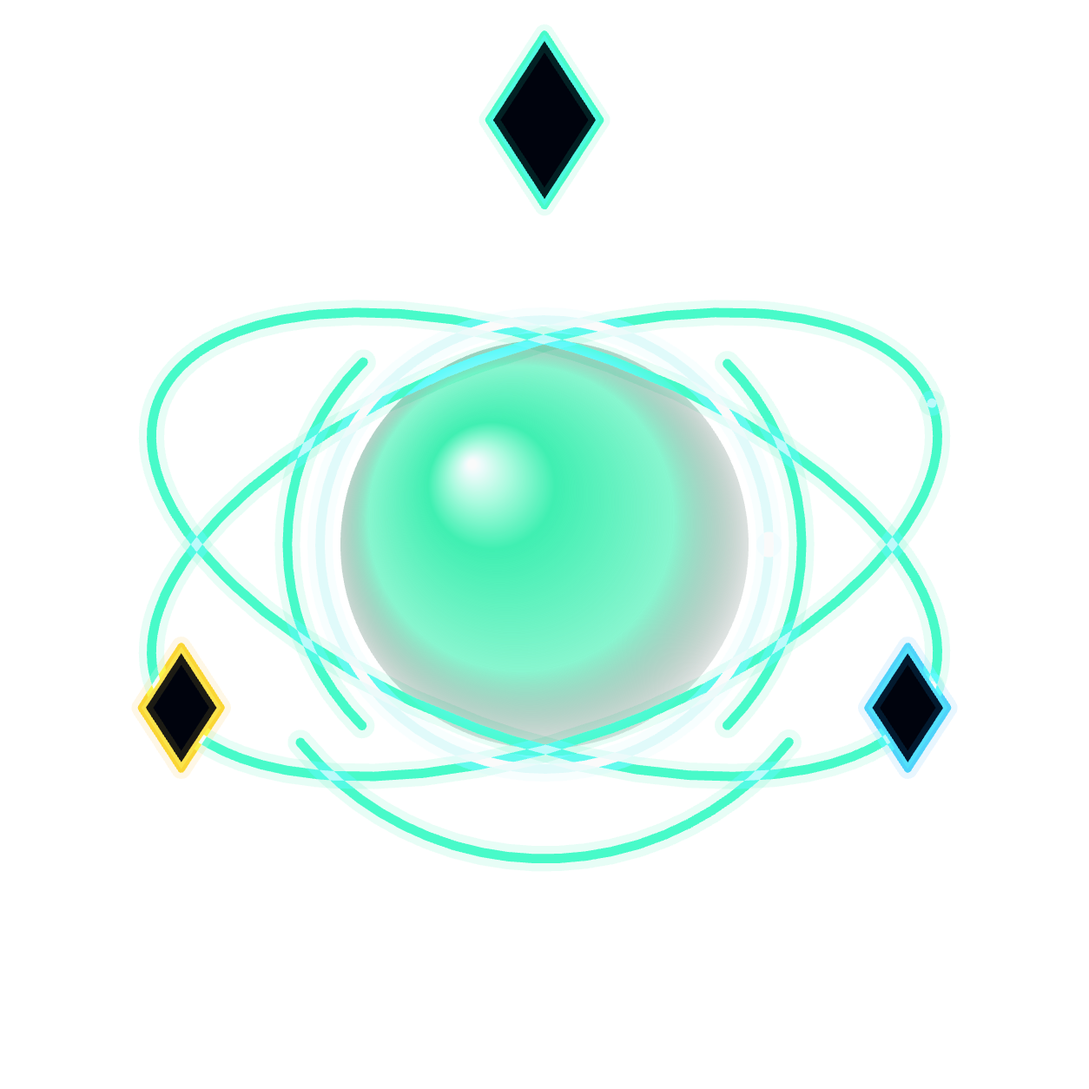
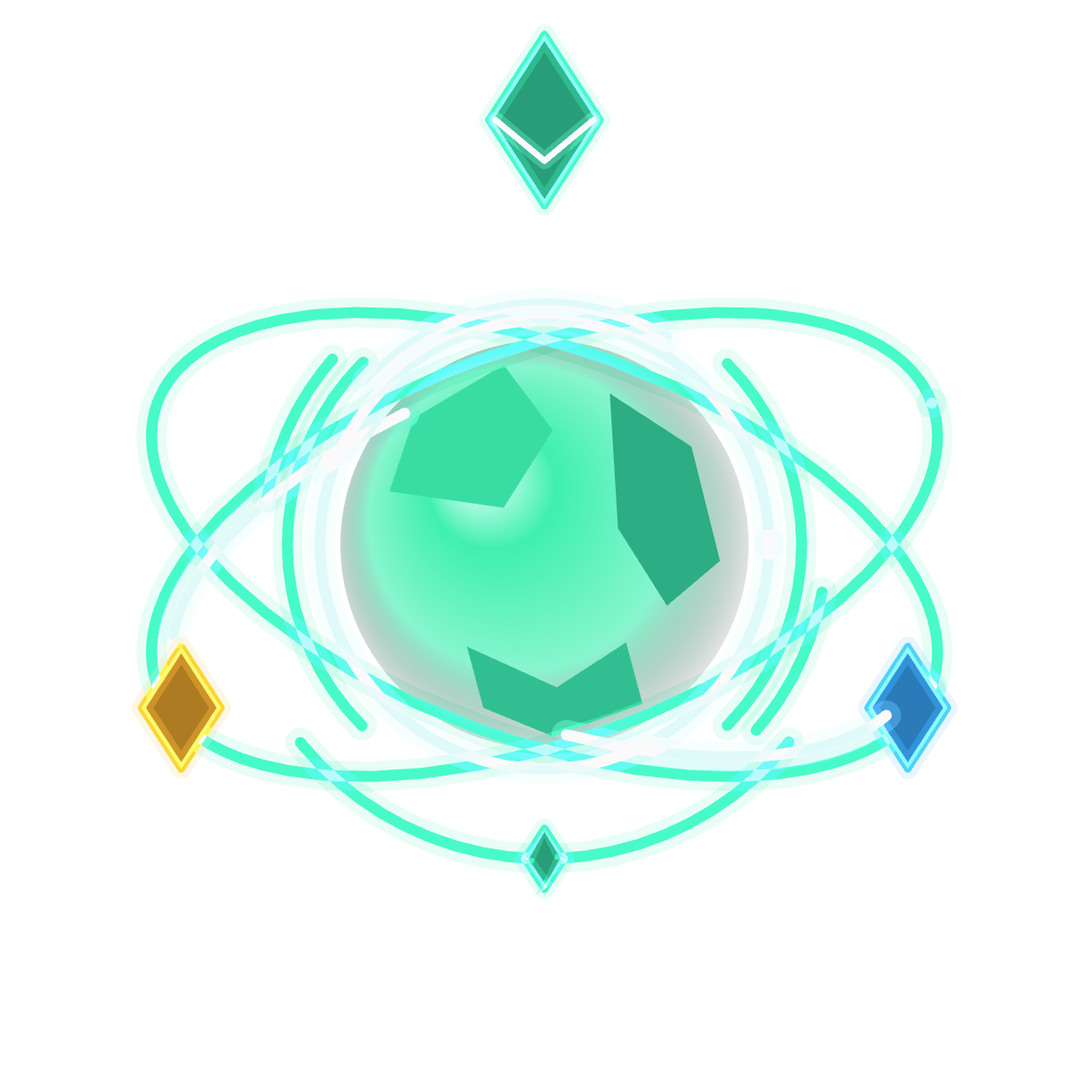
feat(unity): restore character concept details and replace movement flip with subtle trail

diff --git a/UnityProject/Assets/EchoSphere/Scripts/Presentation/NativeCharacterContours.cs b/UnityProject/Assets/EchoSphere/Scripts/Presentation/NativeCharacterContours.cs
@@ -16,6 +16,7 @@ namespace EchoSphere.Presentation
             internal Matrix4x4 Local;
             internal Color? Accent;
             internal bool White;
+            internal float Tone;
             public void Dispose(){Destroy(Fill);Destroy(Stroke);Destroy(Halo);}
         }
         private sealed class Rig : IDisposable
@@ -40,11 +41,12 @@ namespace EchoSphere.Presentation
             if(!_rigs.TryGetValue(id,out var rig)){rig=Build(id);_rigs.Add(id,rig);}
             foreach(var part in rig.Parts){
                 var local=root*part.Local;
-                if(part.Fill!=null)surface.DrawNativeMesh(part.Fill,_solid,Properties(new Color(.018f,.047f,.080f,1)),local,opacity:opacity,inheritShadow:false);
                 var edge=part.White?new Color(.79f,.96f,1,1):part.Accent??color;
+                var fill=Color.Lerp(new Color(.018f,.047f,.080f,1),part.Accent??color,part.Tone);
+                if(part.Fill!=null)surface.DrawNativeMesh(part.Fill,_solid,Properties(fill),local,opacity:opacity,inheritShadow:false);
                 var halo=edge;halo.a=.12f;
-                surface.DrawNativeMesh(part.Halo,_solid,Properties(halo),local,opacity:opacity,additive:true,inheritShadow:false);
-                surface.DrawNativeMesh(part.Stroke,_solid,Properties(edge),local,opacity:opacity,additive:true,inheritShadow:false);
+                if(part.Halo!=null)surface.DrawNativeMesh(part.Halo,_solid,Properties(halo),local,opacity:opacity,additive:true,inheritShadow:false);
+                if(part.Stroke!=null)surface.DrawNativeMesh(part.Stroke,_solid,Properties(edge),local,opacity:opacity,additive:true,inheritShadow:false);
             }
         }
         private static Vector2 P(float x,float y)=>new Vector2(x,y);
@@ -52,74 +54,112 @@ namespace EchoSphere.Presentation
         private static Rig Build(string id)
         {
             var rig=new Rig();
-            void Add(BezierContour contour,bool fill=false,float x=0,float y=0,float angle=0,bool white=false,Color? accent=null,float width=.023f){
-                var part=new Part{Local=Pose(x,y,angle),White=white,Accent=accent};
+            void Add(BezierContour contour,bool fill=false,float x=0,float y=0,float angle=0,bool white=false,Color? accent=null,float width=.027f,float tone=.12f){
+                var part=new Part{Local=Pose(x,y,angle),White=white,Accent=accent,Tone=tone};
                 if(fill)part.Fill=Tessellate(contour,0);
-                part.Stroke=Tessellate(contour,width,cap:PathEnding.Round,corners:PathCorner.Round);
-                part.Halo=Tessellate(contour,width*2.7f,cap:PathEnding.Round,corners:PathCorner.Round);rig.Parts.Add(part);
+                if(width>0){part.Stroke=Tessellate(contour,width,cap:PathEnding.Round,corners:PathCorner.Round);
+                part.Halo=Tessellate(contour,width*2.7f,cap:PathEnding.Round,corners:PathCorner.Round);}rig.Parts.Add(part);
             }
             void Arc(float rx,float ry,float start,float end,float angle=0,bool white=false,float x=0,float y=0)=>Add(EllipseContour(Vector2.zero,rx,ry,start,end),angle:angle,white:white,x:x,y:y);
             void Poly(bool closed,bool fill,params Vector2[] points)=>Add(PolylineContour(closed,points),fill);
-            void Diamond(float x,float y,float size,Color? accent=null)=>Add(PolylineContour(true,P(0,-size),P(size*.65f,0),P(0,size),P(-size*.65f,0)),true,x,y,accent:accent,width:.018f);
-            void Fin(float a,float length=1.18f,float breadth=.13f){
-                Add(PolylineContour(true,P(.72f,-breadth),P(length,0),P(.72f,breadth),P(.82f,0)),true,angle:a,white:true);
+            void Diamond(float x,float y,float size,Color? accent=null)=>Add(PolylineContour(true,P(0,-size),P(size*.65f,0),P(0,size),P(-size*.65f,0)),true,x,y,accent:accent,width:.018f,tone:.65f);
+            void Fin(float a,float length=1.18f,float breadth=.18f){
+                Add(PolylineContour(true,P(.72f,-breadth),P(length,0),P(.72f,breadth),P(.82f,0)),true,angle:a,white:true,tone:.32f);
+                Add(PolylineContour(true,P(.81f,-breadth*.60f),P(length-.09f,0),P(.90f,.015f)),true,angle:a,width:0,tone:.70f);
+                Add(PolylineContour(false,P(.75f,breadth*.52f),P(.87f,.025f)),angle:a,white:true,width:.015f);
                 Add(PolylineContour(false,P(.84f,0),P(length-.07f,0)),angle:a,width:.017f);
             }
             void Crescent(float angle,float reach=1.15f){
-                Add(QuadraticContour(P(-.46f,-.77f),true,P(.10f,-1.13f),P(.80f,-reach),P(.55f,-.80f),P(.24f,-.67f),P(-.11f,-.72f),P(-.46f,-.77f)),true,angle:angle);
+                Add(QuadraticContour(P(-.46f,-.77f),true,P(.10f,-1.13f),P(.80f,-reach),P(.55f,-.80f),P(.24f,-.67f),P(-.11f,-.72f),P(-.46f,-.77f)),true,angle:angle,tone:.30f);
+                Add(PolylineContour(true,P(-.27f,-.79f),P(.65f,-reach+.07f),P(.22f,-.79f)),true,angle:angle,width:0,tone:.66f);
+                Add(PolylineContour(false,P(-.32f,-.79f),P(.18f,-.96f),P(.57f,-reach+.07f)),angle:angle,white:true,width:.014f);
             }
             // Every identity shares the same light core collar, never a solid armor shell.
             Arc(.55f,.55f,0,Mathf.PI*2,white:true);
             Arc(.63f,.63f,-.78f,.78f);Arc(.63f,.63f,2.36f,3.93f);
+            // Broad energy cells and doubled collars follow the approved concept;
+            // they are flat colored pieces, not lit metal or extruded armor.
+            Add(PolylineContour(true,P(-.32f,-.31f),P(-.10f,-.44f),P(.02f,-.28f),P(-.10f,-.09f),P(-.38f,-.13f)),true,width:0,tone:.92f);
+            Add(PolylineContour(true,P(.16f,-.37f),P(.36f,-.24f),P(.43f,.04f),P(.30f,.15f),P(.18f,-.04f)),true,width:0,tone:.72f);
+            Add(PolylineContour(true,P(-.19f,.25f),P(.03f,.35f),P(.20f,.24f),P(.24f,.39f),P(.02f,.47f),P(-.15f,.40f)),true,width:0,tone:.80f);
+            Arc(.59f,.59f,-2.40f,-1.04f,white:true);Arc(.69f,.69f,.17f,.72f);Arc(.69f,.69f,3.31f,3.86f);
             switch(id){
                 case "spherist":
                     Arc(1.05f,.88f,.18f,2.96f);Arc(1.05f,.88f,3.32f,6.10f);
-                    for(int i=0;i<4;i++)Fin(i*Mathf.PI*.5f,i%2==0?1.22f:1.26f,i%2==0?.10f:.13f);
-                    Diamond(.79f,-.63f,.065f);Diamond(-.79f,.63f,.065f);break;
+                    for(int i=0;i<4;i++)Fin(i*Mathf.PI*.5f,i%2==0?1.22f:1.26f,i%2==0?.15f:.19f);
+                    Diamond(.79f,-.63f,.065f);Diamond(-.79f,.63f,.065f);
+                    Arc(.96f,.80f,.23f,.82f,white:true);Arc(.96f,.80f,3.37f,3.96f,white:true);
+                    Add(PolylineContour(false,P(-.60f,-.27f),P(-.78f,-.20f),P(-.89f,-.08f)),white:true,width:.017f);
+                    Add(PolylineContour(false,P(.60f,.27f),P(.78f,.20f),P(.89f,.08f)),white:true,width:.017f);break;
                 case "hunter":
-                    Crescent(-.12f,1.21f);Crescent(Mathf.PI+.16f,1.21f);
+                    Crescent(-.12f,1.15f);Crescent(Mathf.PI+.16f,1.15f);
                     Arc(.86f,.86f,-.65f,.82f);Arc(.86f,.86f,2.50f,3.90f);
                     Poly(false,false,P(-.89f,.43f),P(-1.12f,.76f),P(-.61f,.62f));
-                    Diamond(.87f,.10f,.075f);Diamond(-.80f,-.22f,.06f);break;
+                    Diamond(.87f,.10f,.075f);Diamond(-.80f,-.22f,.06f);
+                    Add(PolylineContour(true,P(-.90f,-.29f),P(-1.12f,-.61f),P(-.78f,-.45f),P(-.68f,-.21f)),true,tone:.30f);
+                    Add(PolylineContour(true,P(.66f,.33f),P(.99f,.58f),P(.77f,.61f),P(.57f,.43f)),true,tone:.42f);
+                    Arc(.76f,.76f,-2.69f,-1.91f,white:true);Arc(.76f,.76f,.45f,1.21f,white:true);break;
                 case "engineer":
                     for(int i=0;i<2;i++){
                         float a=i*Mathf.PI;
                         Add(PolylineContour(true,P(.77f,-.55f),P(.96f,-.42f),P(.96f,.42f),P(.77f,.55f),P(.77f,.31f),P(.84f,.24f),P(.84f,-.24f),P(.77f,-.31f)),true,angle:a,white:true);
                         Add(PolylineContour(true,P(-.32f,-.94f),P(.32f,-.94f),P(.40f,-.85f),P(.31f,-.76f),P(-.31f,-.76f),P(-.40f,-.85f)),true,angle:a,white:true);
                         Add(PolylineContour(false,P(-.22f,-.85f),P(.22f,-.85f)),angle:a);
-                        Add(PolylineContour(true,P(.64f,-.13f),P(.71f,-.13f),P(.71f,.13f),P(.64f,.13f)),true,angle:a,accent:new Color(1,.68f,.28f));
+                        Add(PolylineContour(true,P(.64f,-.13f),P(.71f,-.13f),P(.71f,.13f),P(.64f,.13f)),true,angle:a,accent:new Color(1,.68f,.28f),tone:.65f);
                         Diamond(0,i==0?-1.09f:1.09f,.045f);
+                        Add(PolylineContour(false,P(.78f,-.34f),P(.88f,-.26f),P(.88f,.26f),P(.78f,.34f)),angle:a,width:.015f);
+                        Add(PolylineContour(true,P(.91f,-.075f),P(1.045f,-.075f),P(1.045f,.075f),P(.91f,.075f)),true,angle:a,tone:.62f,width:.018f);
+                        Add(PolylineContour(true,P(-.26f,-.89f),P(.26f,-.89f),P(.22f,-.82f),P(-.22f,-.82f)),true,angle:a,width:0,tone:.50f);
+                        Add(PolylineContour(false,P(-.19f,-1.025f),P(.19f,-1.025f)),angle:a,width:.015f);
                     }break;
                 case "berserker":
                     for(int i=0;i<3;i++){
                         float a=i*Mathf.PI*2/3;
                         Add(PolylineContour(true,P(.56f,-.48f),P(.89f,-.62f),P(1.15f,-.22f),P(.92f,-.31f),P(.81f,.04f),P(.73f,-.24f)),true,angle:a);
                         Arc(.92f,.92f,-.17f,.51f,a,white:true);
+                        Add(PolylineContour(true,P(.68f,-.45f),P(.86f,-.53f),P(.98f,-.33f),P(.84f,-.36f),P(.77f,-.16f)),true,angle:a,width:0,tone:.58f);
+                        Add(PolylineContour(false,P(.65f,-.63f),P(.80f,-.74f),P(.93f,-.65f)),angle:a,white:true,width:.017f);
                     }break;
                 case "alchemist":
                     Arc(1.01f,.48f,0,Mathf.PI*2,.35f);Arc(1.01f,.48f,0,Mathf.PI*2,-.35f);
                     Diamond(0,-1.04f,.21f);Diamond(-.89f,.40f,.15f,new Color(1,.74f,.28f));Diamond(.89f,.40f,.15f,new Color(.34f,.72f,1));
-                    Arc(.77f,.77f,.68f,2.46f);break;
+                    Arc(.77f,.77f,.68f,2.46f);
+                    Arc(.96f,.43f,.25f,1.35f,.35f,white:true);Arc(.96f,.43f,3.39f,4.49f,-.35f,white:true);
+                    Add(PolylineContour(false,P(-.12f,-1.04f),P(0,-.94f),P(.12f,-1.04f)),white:true,width:.015f);
+                    Diamond(0,.77f,.075f);break;
                 case "architect":
                     Poly(true,false,P(0,-1.12f),P(.97f,.64f),P(-.97f,.64f));
                     Add(PolylineContour(true,P(-.71f,-.61f),P(.71f,-.61f),P(.71f,.81f),P(-.71f,.81f)),angle:.22f,white:true,width:.018f);
                     Diamond(0,-1.12f,.085f);Diamond(.97f,.64f,.085f);Diamond(-.97f,.64f,.085f);
-                    Arc(.77f,.77f,-.20f,1.0f);break;
+                    Arc(.77f,.77f,-.20f,1.0f);
+                    Poly(false,false,P(-.60f,.56f),P(0,-.91f),P(.60f,.56f));
+                    for(int i=0;i<3;i++){float a=i*Mathf.PI*2/3;Add(PolylineContour(true,P(-.07f,-.86f),P(0,-1.0f),P(.07f,-.86f)),true,angle:a,width:0,tone:.65f);}
+                    Arc(.83f,.83f,1.54f,2.81f,white:true);break;
                 case "conductor":
                     for(int i=0;i<2;i++){
                         float a=i*Mathf.PI;
                         Add(PolylineContour(true,P(-.18f,-.76f),P(.36f,-1.20f),P(.17f,-.86f),P(.46f,-.91f),P(.12f,-.51f),P(.19f,-.75f)),true,angle:a,white:true);
+                        Add(PolylineContour(false,P(.02f,-.77f),P(.15f,-.96f),P(.10f,-.80f)),angle:a,width:.017f);
+                        Arc(.82f,.82f,-.52f,.49f,a,white:true);
+                        Add(PolylineContour(true,P(.78f,-.43f),P(1.02f,-.47f),P(.94f,-.28f)),true,angle:a,tone:.42f);
                         Arc(.94f,.94f,-.75f,.68f,a);Diamond(i==0?.91f:-.91f,i==0?.24f:-.24f,.07f);
                     }break;
                 case "oracle":
                     Add(QuadraticContour(P(-1.10f,0),true,P(0,-.84f),P(1.10f,0),P(0,.84f),P(-1.10f,0)),white:true);
                     Arc(.83f,.83f,-2.58f,-.56f);Arc(.83f,.83f,.56f,2.58f);
-                    Diamond(0,-1.02f,.17f);Diamond(0,1.02f,.17f);break;
+                    Diamond(0,-1.02f,.17f);Diamond(0,1.02f,.17f);
+                    Add(QuadraticContour(P(-.91f,0),false,P(-.45f,-.36f),P(-.14f,-.31f)),width:.018f);
+                    Add(QuadraticContour(P(.91f,0),false,P(.45f,.36f),P(.14f,.31f)),width:.018f);
+                    Add(PolylineContour(false,P(0,-1.13f),P(.055f,-1.02f),P(0,-.91f)),white:true,width:.015f);
+                    Arc(.96f,.96f,-2.39f,-1.92f,white:true);Arc(.96f,.96f,.75f,1.22f,white:true);break;
                 case "voidwalker":
                     for(int i=0;i<3;i++){
                         float a=i*Mathf.PI*2/3+.24f;
                         Arc(.94f,.94f,-.70f,.38f,a,white:true);
-                        Add(PolylineContour(true,P(.71f,.31f),P(1.10f,.25f),P(.89f,.62f),P(.88f,.41f)),true,angle:a);
+                        Add(PolylineContour(true,P(.71f,.31f),P(1.10f,.25f),P(.89f,.62f),P(.88f,.41f)),true,angle:a,tone:.28f);
+                        Add(PolylineContour(true,P(.81f,.34f),P(1.01f,.30f),P(.91f,.47f)),true,angle:a,width:0,tone:.65f);
+                        Arc(.84f,.84f,-.63f,-.05f,a);
+                        Add(PolylineContour(false,P(.68f,-.63f),P(.84f,-.58f),P(.90f,-.40f)),angle:a,width:.018f);
                     }
                     Arc(.71f,.71f,.13f,1.12f);break;
                 case "fractal":
@@ -128,6 +168,9 @@ namespace EchoSphere.Presentation
                         Add(PolylineContour(true,P(0,-1.13f),P(.28f,-.66f),P(-.28f,-.66f)),angle:a,white:true);
                         Add(PolylineContour(false,P(-.19f,-.72f),P(0,-1.02f),P(.19f,-.72f)),angle:a);
                         Diamond(Mathf.Cos(a+.53f)*.92f,Mathf.Sin(a+.53f)*.92f,.065f);
+                        Add(PolylineContour(true,P(-.15f,-.73f),P(0,-.99f),P(.15f,-.73f)),true,angle:a,width:0,tone:.24f);
+                        Add(PolylineContour(false,P(-.25f,-.63f),P(0,-1.06f),P(.25f,-.63f)),angle:a,width:.014f);
+                        Arc(.89f,.89f,-.80f,-.35f,a);
                     }break;
                 default:Fin(-Mathf.PI*.5f);Fin(Mathf.PI*.5f);Arc(.94f,.94f,0,Mathf.PI*2);break;
             }

diff --git a/scripts/check-unity-character-motion.cs b/scripts/check-unity-character-motion.cs
@@ -1,0 +1,50 @@
+// Isolated native GPU fixture; never changes the live runtime or preferences.
+using System;
+using System.Collections;
+using System.Reflection;
+using System.IO;
+using UnityEngine;
+public static class CharacterMotionAcceptance
+{
+ public static object Main(){
+  if(!UnityEditor.EditorApplication.isPlaying)throw new Exception("Play required");
+  const BindingFlags F=BindingFlags.Instance|BindingFlags.Static|BindingFlags.Public|BindingFlags.NonPublic;
+  var a=typeof(EchoSphere.Runtime.EchoSphereRuntime).Assembly;var pt=a.GetType("EchoSphere.Presentation.NativeWorldPlayer");var st=pt.GetNestedType("State",F);var wt=a.GetType("EchoSphere.Presentation.NativeWorldSurface");
+  object Call(object o,string n,params object[] args)=>o.GetType().GetMethod(n,F).Invoke(o,args);
+  void Set(object o,string n,object value)=>o.GetType().GetField(n,F).SetValue(o,value);
+  object Get(object o,string n)=>o.GetType().GetField(n,F).GetValue(o);
+  int checks=0;void Check(bool ok,string why){checks++;if(!ok)throw new Exception(why);}
+  var go=new GameObject("Character motion fixture");var world=go.AddComponent(wt);Call(world,"Initialize");Call(world,"SetViewport",140f,100f,1.75f);
+  var feedback=Activator.CreateInstance(a.GetType("EchoSphere.Presentation.NativeWorldFeedback"),true);bool backdrop=false;
+  var player=Activator.CreateInstance(pt,true);var shadows=Activator.CreateInstance(a.GetType("EchoSphere.Presentation.NativeWorldCreatures"),true);
+  var core=Get(player,"_core");object state=null;var point=Vector2.zero;
+  void Frame(double time){Set(state,"X",(double)point.x);Set(state,"Y",(double)point.y);Set(state,"Time",time);Call(world,"Begin",Vector2.zero);Call(world,"ResetTransform");Call(player,"BeginFrame");Call(shadows,"BeginFrame");if(backdrop){Call(feedback,"BeginFrame",world);Call(feedback,"Rectangle",-70d,-50d,140d,100d,0d,new Color(.012f,.030f,.065f,1));}Call(player,"Draw",world,state,shadows);Call(world,"End");}
+  IList Batches()=>(IList)Get(world,"_batches");
+  int TrailDraws(){
+   Mesh trail=null;foreach(DictionaryEntry entry in (IDictionary)Get(player,"_art")){var k=entry.Key;if((int)k.GetType().GetField("Item1").GetValue(k)==0&&(double)k.GetType().GetField("Item2").GetValue(k)==1)trail=(Mesh)Get(entry.Value,"Fill");}
+   int count=0;foreach(var batch in Batches())if(trail!=null&&ReferenceEquals(Get(batch,"NativeMesh"),trail)){count++;Check((float)Get(batch,"Blur")==0,"Trail must not add blur passes");var color=((MaterialPropertyBlock)Get(batch,"NativeProperties")).GetVector("_NativeColor");Check(color.w<=.066f,"Trail too opaque");}return count;
+  }
+  try{
+   foreach(var id in new[]{"spherist","hunter","engineer","berserker","alchemist","architect","conductor","oracle","voidwalker","fractal"}){
+    state=Activator.CreateInstance(st);Set(state,"Character",id);Set(state,"Radius",16d);Set(state,"Hp",10d);Set(state,"Color",Color.cyan);point=Vector2.zero;Frame(100);
+    foreach(var direction in new[]{Vector2.right,Vector2.left,Vector2.up,Vector2.down}){
+     for(int i=0;i<3;i++){
+      point+=direction*2;double time=(double)Get(player,"_lastTime")+.016;Frame(time);
+      foreach(var batch in Batches())if(ReferenceEquals(Get(batch,"NativeMaterial"),core)){
+       var matrix=(Matrix4x4)Get(batch,"NativeMatrix");Check(matrix.m00>0,"Body mirrored on movement: "+id);Check(Math.Abs(matrix.m01)<.00001&&Math.Abs(matrix.m10)<.00001,"Body turned on movement: "+id);
+      }
+     }
+     Check(TrailDraws()>0,"Missing movement trail "+id);
+    }
+    double stop=(double)Get(player,"_lastTime")+.20;Frame(stop);Check(TrailDraws()==0,"Trail persists at rest "+id);
+    point+=Vector2.right*1000;Frame(stop+.016);Check((int)Get(player,"_trailCount")==0,"Trail spans teleport "+id);
+   }
+   backdrop=true;state=Activator.CreateInstance(st);Set(state,"Character","spherist");Set(state,"Radius",16d);Set(state,"Hp",10d);Set(state,"Color",Color.cyan);point=new Vector2(-32,0);Frame(300);
+   for(int i=0;i<6;i++){point+=new Vector2(5,0);Frame(300.016+i*.016);}
+   var rt=(RenderTexture)wt.GetProperty("UiTexture",F).GetValue(world);var previous=RenderTexture.active;var image=new Texture2D(rt.width,rt.height,TextureFormat.RGBA32,false);
+   string dir=Path.GetFullPath(Path.Combine(Application.dataPath,"../Library/character-contours"));Directory.CreateDirectory(dir);
+   try{RenderTexture.active=rt;image.ReadPixels(new Rect(0,0,rt.width,rt.height),0,0);image.Apply();File.WriteAllBytes(Path.Combine(dir,"movement-trail-unity.png"),image.EncodeToPNG());}finally{RenderTexture.active=previous;UnityEngine.Object.DestroyImmediate(image);}
+   var result=new{result="PASS",checks,characters=10,directions=4,trailSamples=6,fadeSeconds=.18,scope="Native body matrices never mirror/turn with motion; trail appears, fades at rest, resets at teleport and uses no blur; live scene untouched"};File.WriteAllText(Path.Combine(dir,"motion-acceptance.json"),Newtonsoft.Json.JsonConvert.SerializeObject(result));return result;
+  }finally{((IDisposable)player).Dispose();((IDisposable)shadows).Dispose();((IDisposable)feedback).Dispose();UnityEngine.Object.DestroyImmediate(go);}
+ }
+}

diff --git a/UnityProject/Assets/EchoSphere/Scripts/Presentation/NativeWorldPlayer.cs b/UnityProject/Assets/EchoSphere/Scripts/Presentation/NativeWorldPlayer.cs
@@ -28,6 +28,10 @@ namespace EchoSphere.Presentation
         private readonly Material _core=new Material(Resources.Load<Shader>("EchoSphere/NativeWorldPlayerCore")){name="Native player core",hideFlags=HideFlags.DontSave};
         private readonly List<MaterialPropertyBlock> _properties=new List<MaterialPropertyBlock>();private int _used;
         private readonly List<Art> _dynamic=new List<Art>();private int _dynamicUsed;
+        private struct TrailSample {internal double X,Y,Time;}
+        private readonly TrailSample[] _trail=new TrailSample[6];
+        private int _trailHead,_trailCount;
+        private string _trailCharacter;
         private double _lastX,_lastY,_lastTime=-1;
         private NativeWorldSurface _surface;
         internal void BeginFrame(){_used=0;_dynamicUsed=0;_contours.BeginFrame();}
@@ -50,18 +54,15 @@ namespace EchoSphere.Presentation
             // Menus bake this same contour rig.
             _surface=surface;double r=p.Radius,t=p.Time,pulse=1+Math.Sin(t*5.5)*.025;
             var root=T(p.X,p.Y-r*.1+Math.Sin(t*2.4)*.8,sx:pulse,sy:pulse);
+            DrawMovementTrail(p);
             shadows.DrawGroundShadow(surface,r*.95,r*.25,root);
             float opacity=1;double progress=0;
             if(p.Character=="spherist"){
-                double dt=_lastTime>=0?Math.Max(.001,t-_lastTime):.016,vx=(p.X-_lastX)/dt,vy=(p.Y-_lastY)/dt;
-                _lastX=p.X;_lastY=p.Y;_lastTime=t;
-                bool death=p.Hp<=0,hit=p.ContactCooldown>0,shield=p.ShieldTimer>0||p.ShieldCharges>0;
-                bool moving=!death&&!hit&&!shield&&(p.DashTimer>0||Math.Sqrt(vx*vx+vy*vy)>.06);
-                if(death){
+                if(p.Hp<=0){
                     progress=Math.Min(1,Math.Max(0,1-p.DeathTimer/.90));double fold=progress*progress;
                     var shear=Matrix4x4.identity;shear.m00=(float)(1-fold*.45);shear.m01=(float)(-.10*fold);shear.m11=(float)(1+fold*.06);
                     root*=T(y:-progress*r*.10)*shear*T(sx:pulse*(1-fold*.18),sy:pulse*(1-fold*.18));opacity=(float)(1-progress*.92);
-                }else{root*=T(sx:pulse,sy:pulse);if(moving&&vx>=0)root*=T(sx:-1);}
+                }else{root*=T(sx:pulse,sy:pulse);}
             }
             var bodyRoot=p.Character=="spherist"&&p.Hp<=0?root*T(angle:progress*progress*.25):root;
             DrawArtwork(surface,p,bodyRoot,opacity);
@@ -78,6 +79,23 @@ namespace EchoSphere.Presentation
                     for(int i=0;i<4;i++){double a=t*.9+i*Math.PI/2,rr=r*(1.08+.08*Math.Sin(t*3+i));Paint(diamond,root*T(Math.Cos(a)*rr,Math.Sin(a)*rr*.70),C(220,252,255,.34+spark*.20),null,additive:true);}
                 }
             }else DrawCharacterEffects(surface,p);
+        }
+        private void DrawMovementTrail(State p)
+        {
+            double dx=p.X-_lastX,dy=p.Y-_lastY,dt=p.Time-_lastTime;
+            bool discontinuity=_lastTime<0||_trailCharacter!=p.Character||dt<0||dt>.30||dx*dx+dy*dy>p.Radius*p.Radius*36;
+            if(discontinuity||p.Hp<=0){_trailCount=0;_trailHead=0;}
+            else if(dt>0&&dx*dx+dy*dy>.01){
+                _trail[_trailHead]=new TrailSample{X=_lastX,Y=_lastY,Time=p.Time};
+                _trailHead=(_trailHead+1)%_trail.Length;_trailCount=Math.Min(_trailCount+1,_trail.Length);
+            }
+            _lastX=p.X;_lastY=p.Y;_lastTime=p.Time;_trailCharacter=p.Character;
+            for(int i=0;i<_trailCount;i++){
+                var sample=_trail[(_trailHead-_trailCount+i+_trail.Length)%_trail.Length];
+                double age=p.Time-sample.Time;if(age<0||age>=.18)continue;
+                double fade=1-age/.18,size=p.Radius*(.16+.15*fade);
+                Paint(Circle(1),T(sample.X,sample.Y-p.Radius*.10,sx:size,sy:size),A(p.Color,.065*fade*fade),null,shadow:Color.clear,additive:true);
+            }
         }
         // UI sprites are generated in Editor from the exact live body, without
         // ground/contact/status effects or the run-time bob/death pose.

diff --git a/GPT/UNITY_NATIVE_MODERNIZATION_PROGRESS.md b/GPT/UNITY_NATIVE_MODERNIZATION_PROGRESS.md
@@ -2504,3 +2504,28 @@ https://github.com/Lir37/echo-sphere/actions/runs/40882106878
 проверки и штатного освобождения Console проверена повторно. Неиспользуемые ресурсы
 освобождены Resources.UnloadUnusedAssets,Editor prefs10keys restored/verified.
 Этот завершающий commit меняет recipe/отчёт,не рисунок и не игровой код/APK.
+
+2026-10-29 — исправление по замечанию пользователя к первому contour-переносу.
+Базаc2c2b73d/CI922SUCCESS. Пользователь не принял чрезмерное упрощение native
+рисунка. Во всех10rigs возвращены цветные внутренние вставки,двойные направляющие,
+боковые фрагменты/контакты и плоские energy cells;фаски/толстая 3Dброня не добавлены.
+Сферист compass fins заполнены и расчленены вставками;Hunter серпы с внутренними
+рёбрами/боковыми осколками;Engineer rails/контакты. Остальные7 получили свои
+согласованные мотивы и дополнительные детали. Геометрия retained,468meshes всех10.
+Портреты1254×1254 повторно выпечены из того же тела;manifestSHA актуализирован.
+Первая попытка revision bake выявила выход Hunter за крайPNG;форма компактно
+вписана,проверка всех краёв затем PASS. Предыдущий упрощённый лист исторический,
+доработанный native рисунок ещё требует пользовательского принятия.
+
+Movement-facing mirror/зависимость ориентации тела от vx удалены. Положение тела
+при движении фиксировано;существующие idle/death/отдельные эффекты сохранены.
+Слабый след:кольцевой буфер6samples,0.18s,alpha≤.065,общий retained circle mesh,
+без blur/новых игровых частиц/RNG/save state. Истечение на остановке и сброс на
+телепорте/смене персонажа/разрыве времени/гибели. Публичные игровые правила прежние.
+Unity GPU51169checks PASS,10портретов/60состояний/468retainedmeshes;
+movement720checks PASS для10×4направлений:body matrices без mirror/turn,
+trail есть,истекает,не тянется через teleport,не добавляет blur.
+Пять C#profiles PASS,preflight PASS. Editor уже находился в Play с боем при
+проверке;изолированные fixtures не меняли live runtime/профиль/маршруты,старую
+SessionState-копию prefs не восстанавливали. Play оставлен работающим.
+Новый APK/установка/телефон/FPS не проверялись. См.обновлённый CharacterStyle guide.
